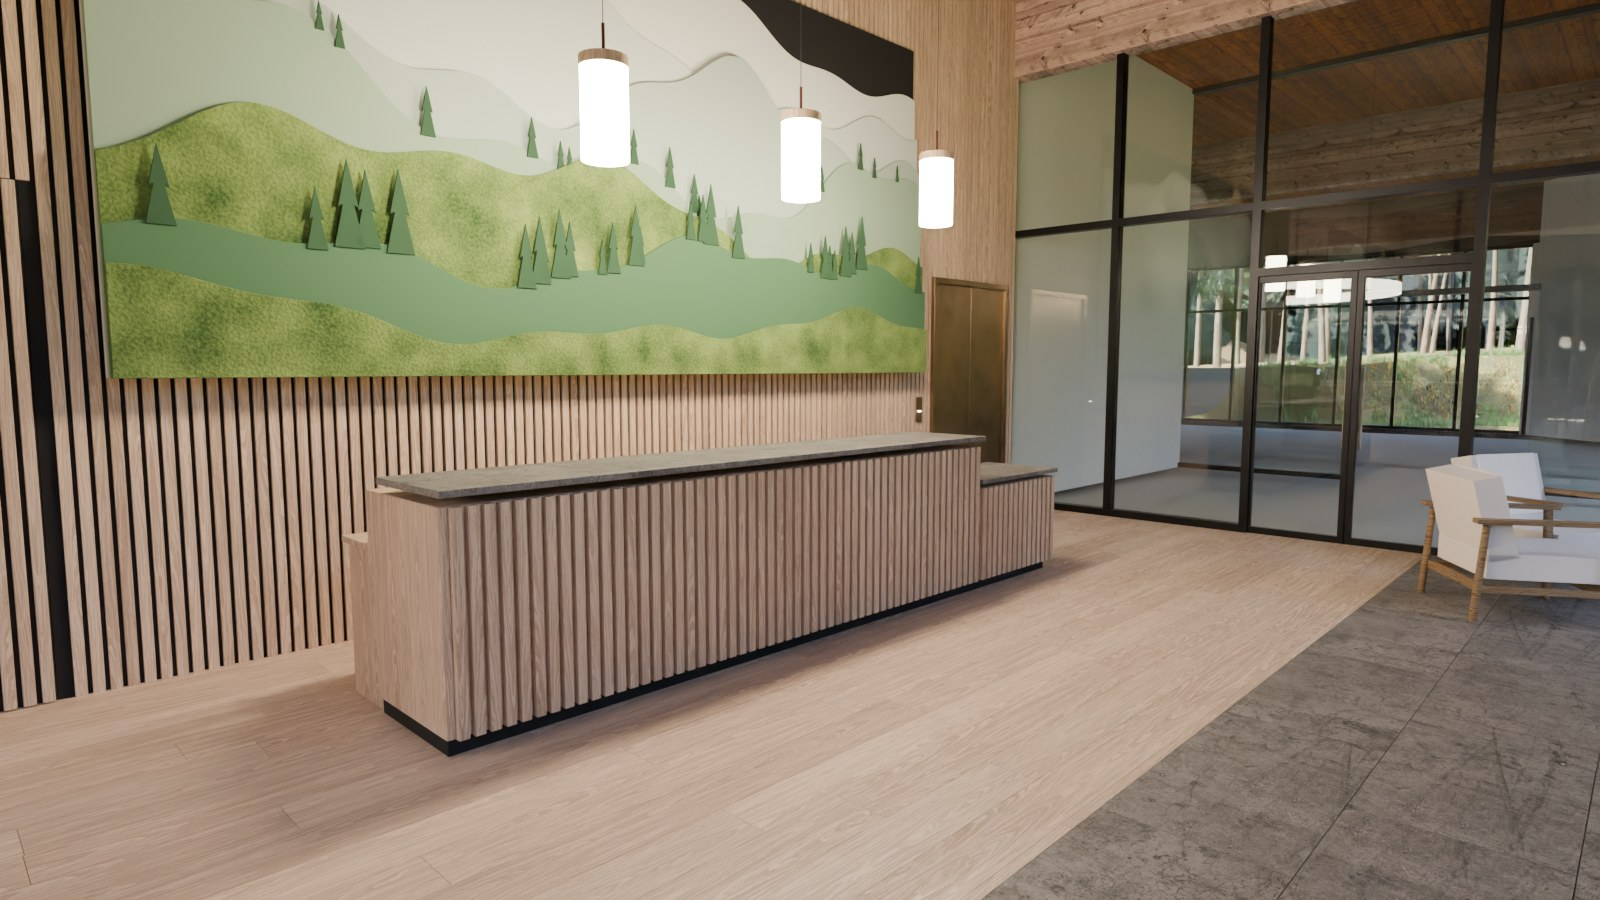
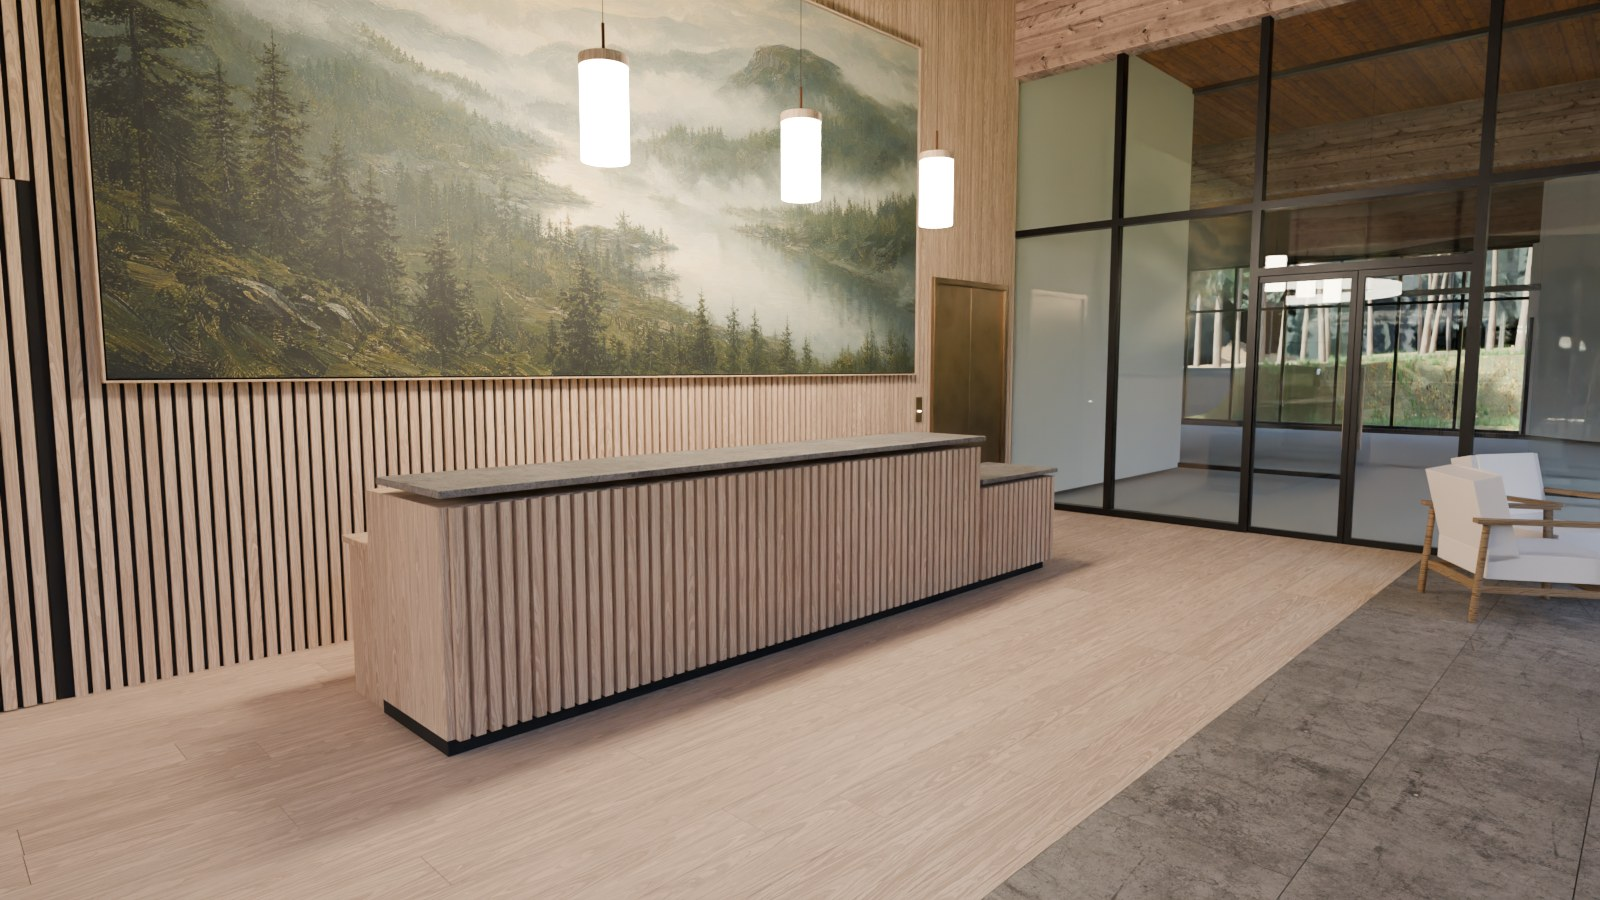
Reception painting: generated with gpt-image-2 (3 options in docs/art, 'valley' chosen), hung as a stretched canvas in an oak float frame with a procedural linen weave + impasto from its own brushwork; replaces the relief
Prompt: the art work you made looks like pretty bad, just use image gen gpt 2 high quality to make some like natural scene or something idk or something abstrasct ghatll look good back there ig
Prompt-Time: 2026-10-11T23:02:28.136Z
Session-Id: c2657e98-4c3e-42ed-8843-4cbcc10033d7

diff --git a/construction/furniture.py b/construction/furniture.py
@@ -515,19 +515,84 @@ def relief_art(P, width=6.0, height=2.9, z0=1.45):
     P.prism(_paint("relief_sun", (0.85, 0.66, 0.36), 0.5), sun, 0.03, 0.045)
 
 
+def _canvas_mat(path):
+    """Oil on linen: the painting + a procedural linen weave (warp and weft threads ~0.6 mm, each thread slightly uneven in
+    thickness and tone, gaps where paint pools), impasto from the painting's own brushwork (luminance as height), a little
+    sheen variation where the paint is thicker. Built after the usual Blender canvas recipe: two banded waves at 90°, distorted."""
+    name = "canvas_" + path.split("/")[-1]
+    m = bpy.data.materials.get(name)
+    if m:
+        return m
+    m = bpy.data.materials.new(name); m.use_nodes = True
+    N, L = m.node_tree.nodes, m.node_tree.links
+    b = N["Principled BSDF"]
+    tc = N.new("ShaderNodeTexCoord")
+    t = N.new("ShaderNodeTexImage"); t.image = bpy.data.images.load(path, check_existing=True); t.interpolation = "Cubic"
+    L.new(tc.outputs["UV"], t.inputs["Vector"])
+    def thread(rot, seed):
+        mp = N.new("ShaderNodeMapping"); mp.inputs["Rotation"].default_value = (0, rot, 0); mp.inputs["Location"].default_value = (seed, 0, seed)  # canvas plane = local x-z
+        L.new(tc.outputs["Object"], mp.inputs["Vector"])
+        w = N.new("ShaderNodeTexWave"); w.wave_type = "BANDS"; w.bands_direction = "X"; w.wave_profile = "SIN"
+        w.inputs["Scale"].default_value = 1000.0  # ~1 mm threads (medium linen)   # object metres -> ~1600 threads / m (0.6 mm linen)
+        w.inputs["Distortion"].default_value = 1.2; w.inputs["Detail"].default_value = 2.0; w.inputs["Detail Scale"].default_value = 2.0
+        L.new(mp.outputs[0], w.inputs["Vector"])
+        return w.outputs["Fac"]
+    warp, weft = thread(0.0, 0.0), thread(1.5708, 3.7)
+    weave = N.new("ShaderNodeMath"); weave.operation = "ADD"; L.new(warp, weave.inputs[0]); L.new(weft, weave.inputs[1])  # plain weave
+    slub = N.new("ShaderNodeTexNoise"); slub.inputs["Scale"].default_value = 120.0; slub.inputs["Detail"].default_value = 4; L.new(tc.outputs["Object"], slub.inputs["Vector"])
+    th = N.new("ShaderNodeMath"); th.operation = "MULTIPLY_ADD"; L.new(weave.outputs[0], th.inputs[0]); th.inputs[1].default_value = 0.45; L.new(slub.outputs["Fac"], th.inputs[2])
+    # impasto: the painting's brushwork as height
+    gray = N.new("ShaderNodeRGBToBW"); L.new(t.outputs["Color"], gray.inputs[0])
+    b1 = N.new("ShaderNodeBump"); b1.inputs["Strength"].default_value = 0.35; b1.inputs["Distance"].default_value = 0.0006; L.new(th.outputs[0], b1.inputs["Height"])
+    b2 = N.new("ShaderNodeBump"); b2.inputs["Strength"].default_value = 0.25; b2.inputs["Distance"].default_value = 0.002; L.new(gray.outputs[0], b2.inputs["Height"])
+    L.new(b1.outputs[0], b2.inputs["Normal"]); L.new(b2.outputs[0], b.inputs["Normal"])
+    # colour: paint settles darker in the weave gaps
+    gap = N.new("ShaderNodeMapRange"); gap.inputs[1].default_value = 0.2; gap.inputs[2].default_value = 0.9; gap.inputs[3].default_value = 0.86; gap.inputs[4].default_value = 1.03
+    L.new(th.outputs[0], gap.inputs[0])
+    col = N.new("ShaderNodeMix"); col.data_type = "RGBA"; col.blend_type = "MULTIPLY"; col.inputs["Factor"].default_value = 1.0
+    L.new(t.outputs["Color"], col.inputs["A"])
+    cc = N.new("ShaderNodeCombineColor"); L.new(gap.outputs[0], cc.inputs[0]); L.new(gap.outputs[0], cc.inputs[1]); L.new(gap.outputs[0], cc.inputs[2])
+    L.new(cc.outputs[0], col.inputs["B"]); L.new(col.outputs["Result"], b.inputs["Base Color"])
+    # oil sheen: thicker (brighter) paint a touch glossier, varnish overall satin
+    rg = N.new("ShaderNodeMapRange"); rg.inputs[3].default_value = 0.62; rg.inputs[4].default_value = 0.42; L.new(gray.outputs[0], rg.inputs[0])
+    L.new(rg.outputs[0], b.inputs["Roughness"])
+    return m
+
+
+def canvas_art(P, width=6.0, height=2.9, z0=1.45, image=""):
+    """Stretched canvas (40 mm deep) in an oak float frame with a 10 mm shadow gap. The painting is generated (gpt-image-2)
+    and lives in docs/art/. The front face carries the image (UV 0..1), the canvas wraps the edges in its own paint."""
+    import bmesh as _bm
+    mat = _canvas_mat(image)
+    b = P.bm(mat)
+    W, H, D = width, height, 0.04
+    v = [b.verts.new(c) for c in ((-W / 2, D, z0), (W / 2, D, z0), (W / 2, D, z0 + H), (-W / 2, D, z0 + H))]
+    f = b.faces.new(v)
+    uv = b.loops.layers.uv.verify()
+    for loop, (u_, w_) in zip(f.loops, ((1, 0), (0, 0), (0, 1), (1, 1))):  # viewed from the front (+y) x runs right-to-left
+        loop[uv].uv = (u_, w_)
+    P.box(M["felt"], (0, D / 2 - 0.001, z0 + H / 2), (W - 0.002, D - 0.004, H - 0.002))   # stretcher body behind the face
+    fr = 0.012; g = 0.01
+    for x in (-W / 2 - g - fr / 2, W / 2 + g + fr / 2):
+        P.box(M["oak"], (x, 0.03, z0 + H / 2), (fr, 0.06, H + 2 * (g + fr)))
+    for z in (z0 - g - fr / 2, z0 + H + g + fr / 2):
+        P.box(M["oak"], (0, 0.03, z), (W + 2 * (g + fr), 0.06, fr))
+    P.box(M["felt"], (0, 0.002, z0 + H / 2), (W + 2 * g, 0.004, H + 2 * g))  # dark tray behind the gap
+
+
 BUILDERS = {
     "lounge_chair": lounge_chair, "sofa": sofa, "dining_chair": dining_chair, "bar_stool": bar_stool, "cafe_table": cafe_table,
     "side_table": side_table, "coffee_table": coffee_table, "communal_table": communal_table, "bench": bench, "boot_bench": boot_bench,
     "rug": rug, "reception_desk": reception_desk, "cafe_island": cafe_island, "ring_pendant": ring_pendant, "pendant_opal": pendant_opal,
     "glass_screen": glass_screen, "sliding_doors": sliding_doors, "vestibule_lid": vestibule_lid, "door_slatted": door_slatted,
     "lift_doors": lift_doors, "glass_door": glass_door, "baffle_screen": baffle_screen, "window_counter": window_counter,
-    "relief_art": relief_art, "porch_floor": porch_floor,
+    "relief_art": relief_art, "porch_floor": porch_floor, "canvas_art": canvas_art,
 }
 PARAMS = {"sofa": ("length",), "communal_table": ("length",), "bench": ("length",), "boot_bench": ("length",), "rug": ("size",),
           "reception_desk": ("length",), "cafe_island": ("r_out", "gap_deg"), "ring_pendant": ("r", "hang"), "pendant_opal": ("hang",),
           "glass_screen": ("width", "height", "door"), "sliding_doors": ("width", "height"), "vestibule_lid": ("size", "height"),
           "door_slatted": ("width", "height"), "lift_doors": ("width", "height"), "glass_door": ("width", "height"),
-          "baffle_screen": ("width", "height"), "window_counter": ("length",), "bar_stool": ("height",), "relief_art": ("width", "height"), "porch_floor": ("size",)}
+          "baffle_screen": ("width", "height"), "window_counter": ("length",), "bar_stool": ("height",), "relief_art": ("width", "height"), "porch_floor": ("size",), "canvas_art": ("width", "height", "image")}
 ARGNAME = {"length": "L", "height": "h"}
 
 

diff --git a/tools/furnish.py b/tools/furnish.py
@@ -24,6 +24,8 @@ from pathlib import Path
 ROOT = Path(__file__).resolve().parents[1]
 sys.path.insert(0, str(ROOT / "terrain"))
 import modelio  # noqa: E402
+if len(sys.argv) > 2 and sys.argv[1] == '--art':
+    _m = modelio.load(); _m.setdefault('interior', {})['reception_art'] = sys.argv[2]; modelio.save(_m)
 
 m = modelio.load()
 lv = {l["id"]: l["elevation"] for l in m["levels"]}
@@ -51,7 +53,10 @@ put("boot_bench", (VX0 + VX1) / 2, VY0 + 0.32, rot=0, zone="entrance", length=1.
 
 # ---- reception
 put("reception_desk", 25.7, 11.3, rot=-90, length=4.6, note="desk faces the doors (east); staff side to the slatted core wall")
-put("relief_art", 24.21, 11.3, rot=-90, width=6.0, height=2.9, note="'Glomma' relief: layered timber fells, preserved moss, spruce silhouettes; behind the desk")
+ART = {"valley": "docs/art/artvalleyoil_0.png", "abstract": "docs/art/artabstracthills_0.png", "mist": "docs/art/artmistforest_0.png"}
+art_pick = m.get("interior", {}).get("reception_art", "valley")
+put("canvas_art", 24.22, 11.3, rot=-90, width=6.0, height=2.9, image=str(ROOT / ART[art_pick]),
+    note=f"painting behind the desk ({art_pick}), generated with gpt-image-2, stretched canvas in an oak float frame")
 for y in (10.0, 11.3, 12.6):
     put("pendant_opal", 25.7, y, hang=2.45, note="opal glass + oak pendant over the desk")
 put("lounge_chair", 28.7, 14.55, rot=-60, zone="reception")

diff --git a/construction/scene.py b/construction/scene.py
@@ -403,6 +403,7 @@ CAMS = {
     "cafe_bridge": ((12.6, 4.8, 1.62), (19.5, -4.0, 1.4), 18),
     "cafe_window": ((25.2, -6.2, 1.4), (17.5, -8.9, 1.0), 20),
     "rec_art": ((28.4, 11.3, 1.62), (24.2, 11.3, 2.6), 18),
+    "rec_art_close": ((24.9, 12.6, 2.4), (24.22, 13.2, 2.35), 50),
 }
 for n, (loc, tgt, lens) in CAMS.items():
     bc.camera(scene, f"cam_{n}", loc, tgt, lens)
@@ -416,7 +417,7 @@ EXPO = scene.view_settings.exposure
 if RENDER:
     shots = {0: ["site_aerial", "ravine_upstream", "site_top"], 1: ["pit_overview", "pit_east", "cofferdam", "pit_floor", "daycare_garden", "site_top"],
              3: ["frame_overview", "frame_east", "frame_gorge", "roof_eaves", "lounge_deck", "hall_f1", "spiral", "daycare_garden", "site_top"],
-             5: ["rec_art", "rec_entry", "rec_desk", "rec_vestibule", "rec_from_cafe", "cafe_bar", "cafe_bridge", "cafe_window"],
+             5: ["rec_art", "rec_art_close", "rec_entry", "rec_desk", "rec_vestibule", "rec_from_cafe", "cafe_bar", "cafe_bridge", "cafe_window"],
              4: ["style_gorge", "style_aerial", "style_arrival", "west_garden", "frame_east", "roof_eaves", "lounge_deck", "daycare_garden", "garden_close", "hall_f1", "river_window_f3", "stair_f3_f4", "towers_west"]}
     for n in (ONLY or shots[max(k for k in shots if k <= STAGE)]):
         scene.camera = bpy.data.objects[f"cam_{n}"]
